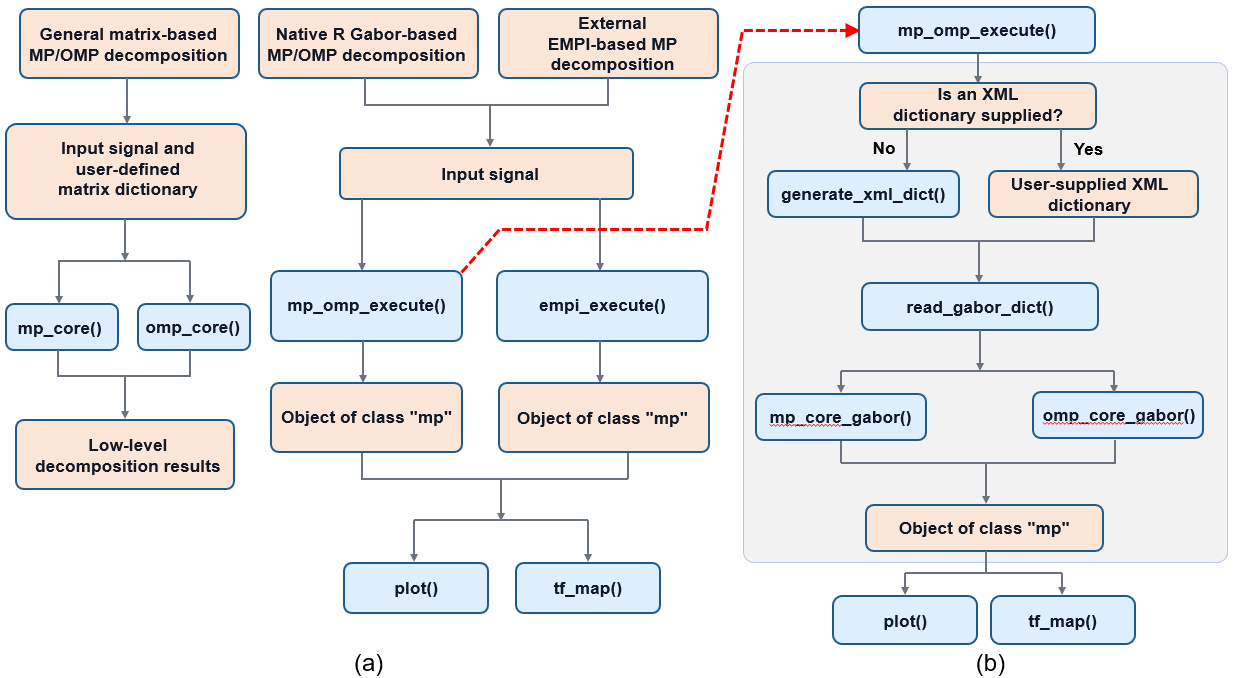
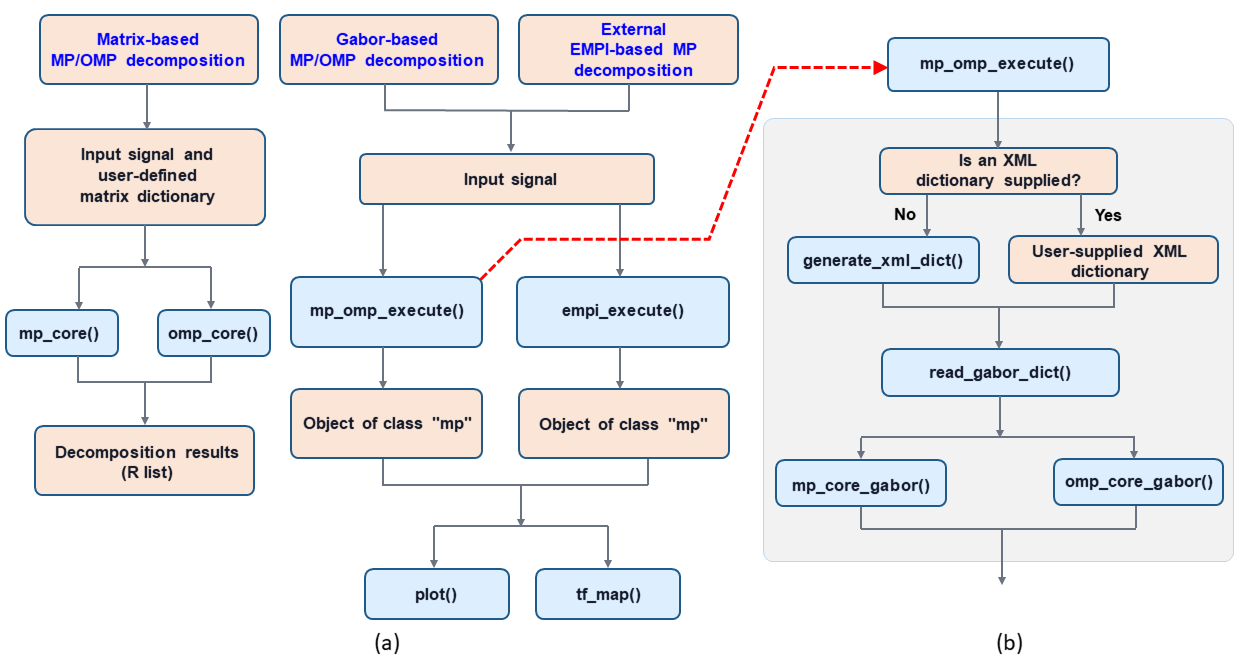
file changed

diff --git a/README.md b/README.md
@@ -25,90 +25,93 @@ downloads](https://cranlogs.r-pkg.org/badges/grand-total/MatchingPursuit)](https
 
 ## Purpose
 
-Sparse signal decomposition framework for one- and multi-channel biomedical and 
-general time-series data using the **Matching Pursuit** and **Orthogonal Matching Pursuit** 
-algorithms. For multi-channel signals, each channel is decomposed independently; 
-atoms are not selected jointly across channels.
+MatchingPursuit is an R package for sparse decomposition of single- and multichannel 
+biomedical and general time-series signals using **Matching Pursuit** (MP) and 
+**Orthogonal Matching Pursuit** (OMP). Multichannel signals are decomposed independently, 
+without joint atom selection across channels.
 
-The package provides native R implementations of **MP-R** and **OMP-R** for both
-general matrix-based dictionaries and parameterized Gabor dictionaries, together
-with the optional external **EMPI** backend for high-performance MP decomposition.
+The package provides four native R implementations:
+- **MP-Matrix** using `mp_core()` — Matching Pursuit with user-defined **matrix-based** dictionaries.
+- **OMP-Matrix** using `omp_core()` — Orthogonal Matching Pursuit with user-defined **matrix-based** dictionaries.
+- **MP-Gabor** using `mp_core_gabor()` — Matching Pursuit with parameterized **Gabor-based** dictionaries.
+- **OMP-Gabor** using `omp_core_gabor()` — Orthogonal Matching Pursuit with parameterized **Gabor-based** dictionaries.
 
-Supported features:
+The Gabor-based implementations use FFT-based projections and analytical phase optimization 
+without materializing the full dictionary matrix. The package also provides an interface to the 
+external **Enhanced Matching Pursuit Implementation (EMPI)**.
 
-- Sparse decomposition using arbitrary user-defined dictionaries
-- Native R implementations of:
-    - Matching Pursuit (**MP-R**)
-    - Orthogonal Matching Pursuit (**OMP-R**)
-- An educational and reference implementation of OMP through `omp_reference()`
-- Direct, iterative Gabor-based MP/OMP decomposition using FFT-based projections
-  and analytical phase optimization, without materializing the full dictionary
-- Optional high-performance Gabor-based Matching Pursuit using the external
-  **Enhanced Matching Pursuit Implementation (EMPI)** backend
-- Support for biomedical signal formats:
-    - EDF / EDF+ files
-    - WFDB records
-    - three standard EEG montages (bipolar, referential, and average-reference montages)
-- Plotting time-frequency maps for Gabor-based MP, OMP, and EMPI results
-- Signal preprocessing using notch, low-pass, high-pass, band-pass, and band-stop filters
+Additional features include:
 
-Note:
+- An educational and reference OMP implementation using `omp_reference()`.
+- Support for CSV, EDF/EDF+, and WFDB signal formats.
+- Signal preprocessing, including filtering (using notch, low-pass, high-pass, 
+  band-pass, and band-stop filters) and resampling.
+- EEG montage construction (bipolar, referential, and average-reference).
+- Signal reconstruction and time–frequency visualization.
 
-The terms **MP-R** and **OMP-R**, with the suffix **R**, refer to the corresponding 
-native R backends rather than to the algorithms themselves. The terms **MP** and 
-**OMP**, without the suffix **R**, refer to the corresponding algorithms rather 
-than to a specific implementation.
 
 ## Installation
 
-You can install the released version from
-[CRAN](https://CRAN.R-project.org) with:
+## Installation
+
+You can install the latest version available on 
+[CRAN](https://CRAN.R-project.org/package=MatchingPursuit) with:
 
 ```r
 install.packages("MatchingPursuit")
 ```
 
+The development version can be installed from GitHub using:
+
+```r
+remotes::install_github("artur-gramacki/MatchingPursuit")
+```
+
 ## Quick start
 
-### MP-R and OMP-R: Gabor-based decomposition
+### MP-Gabor and OMP-Gabor
 
-For Gabor-based decomposition, `mp_omp_execute()` provides the high-level interface. 
-It generates or reads the parameterized Gabor dictionary and calls
-`mp_core_gabor()` or `omp_core_gabor()` for iterative selection based on the
-current residual. It combines decomposition results across channels and returns
-an object of class `"mp"` without materializing the complete dictionary.
+For Gabor-based decomposition, `mp_omp_execute()` provides a high-level interface 
+to the native R implementations MP-Gabor and OMP-Gabor. It generates or reads a 
+parameterized Gabor dictionary and performs decomposition using `mp_core_gabor()`
+or `omp_core_gabor()`, respectively. Each channel is decomposed independently, and 
+the results are combined into an object of class `mp` without materializing the 
+full dictionary matrix.
+
 
 ```r
 sig_file <- system.file("extdata", "sample1.csv", package = "MatchingPursuit")
 signal <- read_csv_signals(sig_file)
 
+# use mode = "omp" for OMP-Gabor
 out_mp <- mp_omp_execute(
   signal = signal,
-  mode = "mp",          # use "omp" for Orthogonal Matching Pursuit
+  mode = "mp",         
   n_nonzero_coefs = 50,
   verbose = TRUE
 )
 
-plot(out_mp, channel = 1)
+plot(out_mp)
 ```
 
 If `dictionary = NULL`, an XML Gabor dictionary specification is generated internally.
 
 The time–frequency map below shows the energy distribution of the selected atoms. 
-White crosses indicate the centers of individual time–frequency blobs, i.e. 
-the atoms' central time and central frequency coordinates. The panels below 
-show the original signal and its reconstruction; in this example, the reconstruction 
-explains 99.25% of the signal energy.
+White crosses indicate the centers of individual time–frequency blobs, 
+corresponding to the atoms' central time and frequency coordinates. 
+The lower panels show the original and reconstructed signals. In this example, 
+the reconstruction explains 99.25% of the signal energy.
 
 <p align="center">
   <img src="man/figures/mp.png" width="700">
 </p>
 
-### Decomposition with a custom dictionary
+### MP-Matrix and OMP-Matrix
 
-The native R implementations can operate directly on arbitrary user-defined 
-dictionaries. Dictionary atoms are supplied as columns of a numeric matrix and 
-are normalized internally to unit L2 norm.
+The native R implementations MP-Matrix and OMP-Matrix support arbitrary user-defined 
+matrix-based dictionaries through `mp_core()` and `omp_core()`, respectively. 
+Dictionary atoms are supplied as columns of a numeric matrix and normalized 
+internally to unit L2 norm. The following example demonstrates OMP-Matrix.
 
 ```r
 N <- 256
@@ -123,6 +126,7 @@ dictionary <- cbind(
 
 signal_custom <- sin(2 * pi * 5 * t) + 0.5 * cos(2 * pi * 10 * t)
 
+# use mp_core() for MP-Matrix
 out <- omp_core(
   dictionary = dictionary,
   signal = signal_custom,
@@ -136,17 +140,18 @@ out$relative_residual_energy
 # [1] 1.000000e+00 2.012529e-01 6.721842e-32
 ```
 
-In the example above, OMP correctly identifies atoms 1 and 4, corresponding to 
-the 5 Hz sine and 10 Hz cosine components used to construct the signal. After 
-two iterations, the residual energy is effectively zero.
+In this example, OMP-Matrix selects atoms 1 and 4, corresponding to the 5 Hz 
+sine and 10 Hz cosine components of the signal. After two iterations, the residual 
+energy is effectively zero.
 
 ### EMPI
 
-EMPI is an optional external third-party backend used for high-performance
-Matching Pursuit decomposition and is distributed separately under its own
-license. It is not part of the MatchingPursuit package.
+EMPI is an optional external, high-performance implementation of Matching Pursuit. 
+It is distributed separately under its own license and is not part of the 
+MatchingPursuit package.
 
-EMPI must first be installed using the `empi_install()` function. The decomposition 
+EMPI must first be installed using the `empi_install()` function, which downloads 
+the required binaries and places them in the appropriate location. The decomposition 
 can then be performed using `empi_execute()` and visualized using `plot()`.
 
 ```r
@@ -157,71 +162,32 @@ out_empi <- empi_execute(
   signal = signal
 )
 
-plot(out_empi, channel = 1)
+plot(out_empi)
 ```
-This example illustrates an EMPI-based decomposition and its time–frequency 
-representation. The map reveals several localized components distributed across 
-time and frequency, while the reconstructed signal closely follows the original 
-waveform. In this case, the selected atoms explain 98.96% of the signal energy.
+The time–frequency map shows localized components distributed across time and 
+frequency, while the reconstructed signal closely follows the original waveform.
+In this example, the selected atoms explain 98.96% of the signal energy.
 
 <p align="center">
   <img src="man/figures/empi.png" width="700">
 </p>
 
-
-## Educational OMP implementation
-
-For small illustrative and validation examples, `omp_reference()` provides a 
-straightforward reference implementation that follows the mathematical 
-formulation of OMP explicitly, including least-squares coefficient updates 
-and residual orthogonality checks.
-
-```r
-ref <- omp_reference(
-  dictionary = dictionary,
-  signal = signal_custom,
-  n_nonzero_coefs = 2
-)
-
-ref$selected_atoms
-# [1] 1 4
-
-ref$coefficients_original_dict
-# [1] 1.0 0.0 0.0 0.5
-
-ref$normalized_reconstruction_error_original_dict
-# [1] 6.951762e-16
-
-ref$orthogonality
-# [[1]]
-# [1] -5.031148e-15
-
-# [[2]]
-# [1] -5.297255e-15  7.072036e-15
-```
-
-The reference implementation recovers the exact coefficients of the original 
-dictionary, while the near-zero reconstruction error and orthogonality values 
-confirm the expected OMP properties.
-
+ 
 
 ## Package architecture
 
-The package provides three main decomposition routes.
+The package provides three main decomposition workflows.
 
-| Route | Main functions | Purpose | Recommended use |
+| Workflow | Main functions | Purpose | Recommended use |
 |:--|:--|:--|:--|
-| **General matrix-based MP/OMP** | `mp_core()`, `omp_core()` | Sparse decomposition with arbitrary matrix dictionaries | General sparse decomposition and experimentation |
-| **Native R Gabor-based MP/OMP** | `mp_core_gabor()`, `omp_core_gabor()`, `mp_omp_execute()` | Iterative decomposition directly on a parameterized Gabor dictionary | Time-frequency decomposition in R |
-| **External EMPI-based MP** | `empi_execute()` | Optimized Gabor-based Matching Pursuit | High-performance time-frequency decomposition |
+| **MP-Matrix / OMP-Matrix** | `mp_core()`, `omp_core()` | Sparse decomposition with arbitrary matrix-based dictionaries | General sparse decomposition and experimentation |
+| **MP-Gabor / OMP-Gabor** | `mp_core_gabor()`, `omp_core_gabor()`, `mp_omp_execute()` | Sparse decomposition with parameterized Gabor-based dictionaries without explicit materialization | Time–frequency signal decomposition |
+| **EMPI** | `empi_execute()` | Gabor-based MP using an external optimized implementation | High-performance time-frequency decomposition |
 
 ## Typical workflows
 
-The diagram below illustrates the main workflows supported by MatchingPursuit. The 
-package provides native R implementations of MP and OMP for both user-defined matrix 
-dictionaries and parameterized Gabor dictionaries, as well as optional integration with 
-the external EMPI backend. Gabor-based MP and OMP can be performed without materializing 
-the full dictionary.
+The diagram below illustrates the three main decomposition workflows supported by 
+MatchingPursuit: **matrix-based MP/OMP**, **Gabor-based MP/OMP**, and external **EMPI-based MP**.
 
 <p align="center">
   <img src="man/figures/main_workflows.png" width="800">
@@ -229,38 +195,30 @@ the full dictionary.
 **Figure legend:** Blue boxes represent R functions, while light orange boxes represent 
 workflow steps, inputs, or output objects.
 
-The **general matrix-based MP/OMP workflow** operates directly on a user-defined numeric
-dictionary and input signal through `mp_core()` or `omp_core()`. It is independent
-of the Gabor-specific dictionary construction utilities and can therefore be used
-with arbitrary matrix dictionaries. These functions return low-level decomposition
-results, giving the user direct control over the dictionary and the decomposition
-procedure.
+The **MP-Matrix** / **OMP-Matrix** workflow operates directly on user-defined numeric dictionaries 
+through `mp_core()` or `omp_core()`. It supports arbitrary matrix-based dictionaries and returns 
+low-level decomposition results, giving users direct control over dictionary construction 
+and decomposition parameters.
 
-The **native R Gabor-based MP/OMP workflow** uses `mp_core_gabor()` and
-`omp_core_gabor()` for direct decomposition with a parameterized Gabor dictionary.
-The high-level `mp_omp_execute()` interface handles XML dictionary generation or
-selection, calls `read_gabor_dict()`, and processes each signal channel
-independently. At each iteration, the selected algorithm searches for the Gabor
-atom best matching the current residual. Candidate projections are evaluated
-using FFT-based computations, and atom phase is optimized analytically. Only
-selected atoms are constructed in the time domain; no top-k preselection or
-complete matrix dictionary is required. MP updates the residual after each
-selection, while OMP additionally recomputes all active coefficients by least
-squares. The channel results are combined into an object of class `"mp"`.
+The **MP-Gabor** / **OMP-Gabor** workflow uses `mp_core_gabor()` and `omp_core_gabor()` for 
+decomposition with parameterized Gabor dictionaries. The high-level `mp_omp_execute()` 
+function handles XML dictionary generation or selection, calls `read_gabor_dict()`, 
+and processes each signal channel independently. Candidate projections are computed 
+using FFT-based operations, and atom phases are optimized analytically. Only selected 
+atoms are reconstructed in the time domain, without materializing the full dictionary 
+matrix. MP updates the residual after each selection, whereas OMP additionally
+recomputes the coefficients of all selected atoms using least squares. The results are 
+combined into an object of class `mp`.
 
-The **external EMPI-based MP workflow** provides an alternative MP implementation
-through `empi_execute()`. In this case, decomposition is performed by the external
-high-performance C++ EMPI backend rather than by the native R MP/OMP core functions.
-The wrapper integrates the external decomposition results into the same
-package-level `"mp"` representation, allowing them to be handled using the same
-downstream visualization functions, including `plot()` and `tf_map()`.
+The **EMPI** workflow provides an external high-performance implementation of MP 
+through `empi_execute()`. Decomposition is performed by the external C++ backend, 
+and the results are converted into the same `mp` representation used by the native 
+Gabor implementations. This allows reconstruction and visualization using common 
+functions, including `plot()` and `tf_map()`.
 
-Thus, the three workflows differ in their level of abstraction, 
-dictionary representation, and decomposition backend: direct matrix-based 
-MP/OMP for arbitrary user-defined dictionaries, the integrated native Gabor MP/OMP
-workflow, and the external EMPI-based Gabor MP workflow. The latter two return a
-common `"mp"` object, facilitating consistent visualization and interpretation
-within the package.
+The three workflows differ in dictionary representation and decomposition backend. 
+The Gabor-based and EMPI workflows return compatible `mp` objects, enabling 
+consistent reconstruction and visualization.
 
 ## Documentation
 
@@ -271,11 +229,10 @@ The package documentation includes:
 
 ## Supported input formats
 
-The package supports generic multichannel time-series together with commonly 
-used biomedical formats:
+The package supports single- and multichannel time-series signals in the following formats:
 
 - CSV (generic signals)
-- EDF / EDF+ (EEG, ECG)
+- EDF/EDF+ (EEG and other physiological recordings)
 - WFDB (physiological records)
 
 ## Citation
@@ -289,5 +246,5 @@ citation("MatchingPursuit")
 
 MatchingPursuit is distributed under the GNU General Public License version 3 (GPL-3).
 
-EMPI is external third-party software, distributed separately under its own
-license, and is not part of the MatchingPursuit package.
+EMPI is external third-party software distributed separately under its own license and 
+is not part of the MatchingPursuit package.

diff --git a/NEWS.md b/NEWS.md
@@ -1,3 +1,19 @@
+# MatchingPursuit 1.4.1
+
+* Updated the README and package vignette for improved clarity and consistency.
+
+* Standardized the terminology for the four native R implementations: MP-Matrix, 
+  OMP-Matrix, MP-Gabor, and OMP-Gabor.
+
+* Revised descriptions of the matrix-based, Gabor-based, and external EMPI 
+  decomposition workflows.
+
+* Updated workflow diagrams and example figures.
+
+* Corrected minor documentation and formatting issues.
+
+* Regenerated package documentation and updated package metadata.
+
 # MatchingPursuit 1.4.0
 
 * Added `mp_core_gabor()` and `omp_core_gabor()` for direct MP and OMP
